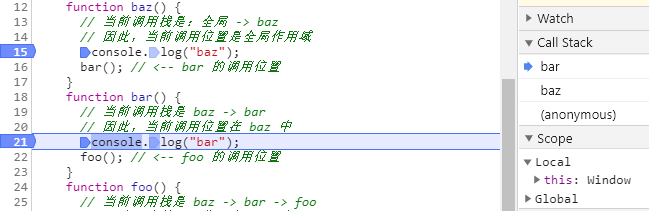
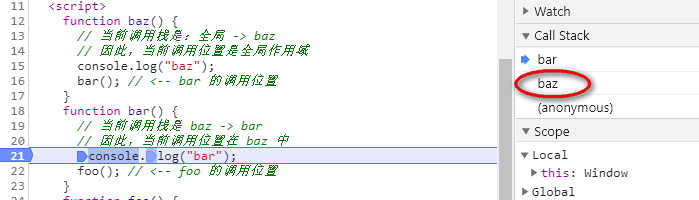
2.4 completed

Changed region(s): [[0.0, 0.0, 1.0, 1.0], [0.7396, 0.15, 1.0, 0.27], [0.7396, 0.03, 1.0, 0.12]]

diff --git a/this.js b/this.js
@@ -1,40 +1,5 @@
-function baz() {
-  // 当前调用栈是：baz
-  // 因此，当前调用位置是全局作用域
-  console.log("baz");
-  bar(); // <-- bar 的调用位置
-}
-function bar() {
-  // 当前调用栈是 baz -> bar
-  // 因此，当前调用位置在 baz 中
-  console.log("bar");
-  foo(); // <-- foo 的调用位置
-}
-function foo() {
-  // 当前调用栈是 baz -> bar -> foo
-  // 因此，当前调用位置在 bar 中
-  console.log("foo");
-}
-baz(); // <-- baz 的调用位置
-
-// 码设置一个断点,运行代码时，调试器会在那个位置暂停，同时会展示当前位置的函数调用列表，这就是你的调用栈。因此，如果你想要分析 this 的绑定，使用开发者工具得到调用栈，然后找到栈中第二个元素，这就是真正的调用位置。
-
-// 1. 默认绑定
-function test() {
-  var a = 5;
-  console.log(this.a)
-}
-var a = 3;
-test() // 3
-// test 在全局调用，所以 this 指的是全局的 a = 3
-// foo() 是直接使用不带任何修饰的函数引用进行调用的，因此只能使用默认绑定，无法应用其他规则。
-
-// 2.隐式绑定
-obj.foo()
 // 3.显式绑定 87
-// ? apply 和 call 定义、区别
-// !它们的第一个参数是一个对象，它们会把这个对象绑定到this，接着在调用函数时指定这个 this。因为你可以直接指定 this 的绑定对象，因此我们称之为显式绑定。
-// !从 this 绑定的角度来说，call(..) 和 apply(..) 是一样的，它们的区别体现在其他的参数上
+// 它们的第一个参数是一个对象，它们会把这个对象绑定到this，接着在调用函数时指定这个 this。因为你可以直接指定 this 的绑定对象，因此我们称之为显式绑定。
 function test() {
   console.log(this.a)
 }
@@ -156,3 +121,5 @@ o.foo(); // 3
 // 4. 默认：在严格模式下绑定到 undefined，否则绑定到全局对象。 
 
 // 一定要注意，有些调用可能在无意中使用默认绑定规则。如果想“更安全”地忽略this绑 定，你可以使用一个 DMZ 对象，比如 ø = Object.create(null)，以保护全局对象。 ES6中的箭头函数并不会使用四条标准的绑定规则，而是根据当前的词法作用域来决定this，具体来说，箭头函数会继承外层函数调用的this绑定（无论this绑定到什么）。这 其实和 ES6 之前代码中的 self = this 机制一样。
+
+

diff --git a/test2.js b/test2.js
@@ -57,3 +57,4 @@ var a = 3;
   let a = 4;
   foo.call(obj);
 }
+

diff --git a/you don't know JS/this & object prototypes.md b/you don't know JS/this & object prototypes.md
@@ -35,8 +35,126 @@ function foo() {
 }
 baz(); // <-- baz 的调用位置
 ```
-:point_right: chrome 中 打开 F12 控制台，在 Sources 中,通过打断点的方式，查看调用栈，然后找到栈中的第二个元素就是真正调用的位置。  
+:point_right: chrome 中 打开 F12 控制台，在 Sources 中,通过打断点的方式，查看调用栈，然后找到栈中的<font color='red'>第二个元素</font>就是真正调用的位置。  
 ![Image text](https://raw.githubusercontent.com/liucrystal24/Notebook/master/you%20don't%20know%20JS/img/callstack.png)
+
+### 2.2 绑定规则
+&emsp;&emsp;绑定规则大致分为四种：1. 默认绑定  2. 隐式绑定 3. 显式绑定 4. new 绑定 。  
+1. 默认绑定  
+   this -> 全局对象,如果用严格模式， this -> undefined
+```javascript
+function foo() {
+  // 'use strict';
+  var a = 5;
+  console.log(this.a)
+}
+var a = 3;
+foo() // 3
+```
+2. 隐式绑定  
+   当函数引用有上下文对象时，隐式绑定规则会把函数调用中的this绑定到这个上下文对象。  
+   对象属性引用链中只有<font color='red'>最后一层</font>会影响调用位置。
+```javascript
+function foo() { 
+  console.log( this.a ); 
+}
+var obj2 = { 
+  a: 2, 
+  foo: foo
+};
+var obj1 = { 
+  a: 1, 
+  obj2: obj2
+};
+obj2.foo(); // 2
+obj1.obj2.foo() // 2
+```
+&emsp;&emsp;&emsp;:exclamation: 隐式丢失:  
+&emsp;&emsp;&emsp;被隐式绑定的函数会丢失绑定对象，应用默认绑定，从而把this绑定到全局对象或者undefined上，取决于是否是严格模式。  
+
+```javascript
+function foo() { 
+  console.log( this.a ); 
+}
+var obj = { 
+  a: 2, 
+  foo: foo
+};
+var bar = obj.foo; // 函数别名！ 
+var a = "oops, global"; // a 是全局对象的属性
+bar(); // "oops, global"
+// setTimeout 中也是同理
+setTimeout( obj.foo, 100 ); // "oops,global"
+```
+&emsp;&emsp;&emsp;:point_right: 虽然 bar 是 obj.foo 的一个引用，但是实际上，它引用的是 foo 函数本身，因此此时的 bar()其实是一个不带任何修饰的函数调用，因此应用了默认绑定。
+
+3. 显式绑定  
+   第一个参数是一个对象，它们会把这个对象绑定到this，接着在调用函数时指定这个 this。 
+```javascript
+function foo() {
+  console.log(this.a)
+}
+var obj = {
+  a: 6,
+}
+foo.call(obj) // 6
+```
+&emsp;&emsp;&emsp;:exclamation: 硬绑定:显式绑定的一个变种，可以解决丢失绑定问题。
+
+```javascript
+function foo() {
+  console.log(this.a);
+}
+var obj1 = {
+  a: 1
+};
+var obj2 = {
+  a: 2
+}
+var bar = function () {
+  foo.call(obj1);
+};
+bar(); // 1
+// 硬绑定的 bar 不可能再修改它的 this，此处还在obj1上
+bar.call(obj2) //1
+```
+&emsp;&emsp;&emsp;&emsp;:point_right: 型应用场景就是创建一个包裹函数，传入所有的参数并返回接收到的所有值
+
+```javascript
+function foo(addNum) {
+  console.log(this.a, addNum)
+  return this.a + addNum;
+}
+var obj = {
+  a: 2,
+}
+function add2() {
+  return foo.apply(obj, arguments)
+}
+var result = add2(3) // 2 3
+console.log(result); // 5
+```
+
+4. new 绑定  
+:exclamation: 在 JavaScript 中，构造函数只是一些使用new操作符时被调用的函数。它们并不会属于某个类，也不会实例化一个类。它们只是被new操作符调用的<font color='red'>普通函数</font>而已。  
+:point_right: 使用new来调用函数，或者说发生构造函数调用时，会自动执行下面的操作。  
+   1. 创建（或者说构造）一个全新的对象。
+   2. 这个新对象会被执行 [[ 原型 ]] 连接。
+   3. 这个新对象会<font color='red'>绑定到函数调用的 this</font>。
+   4. 如果函数没有返回其他对象，那么 new 表达式中的函数调用会自动返回这个新对象。
+
+```js
+function foo(a) { 
+  this.a = a;
+}
+var bar = new foo(2); 
+console.log( bar.a ); // 2
+```
+:point_right: 使用 new 来调用 foo(..) 时,构造一个新对象并把它绑定到 foo(..) 调用中的 this上。
+
+
+
+
 ## 3. 对象
 
 ## 4. 混合对象 "类"
